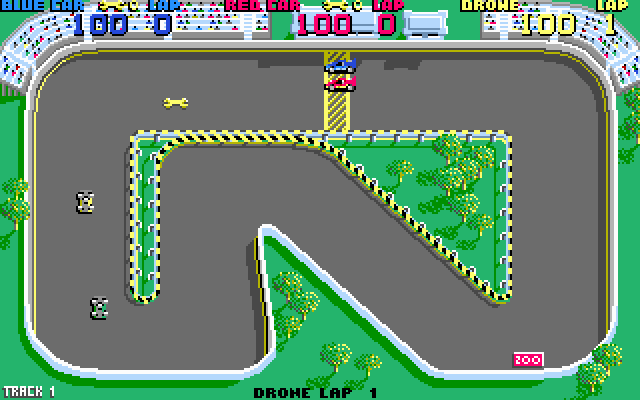
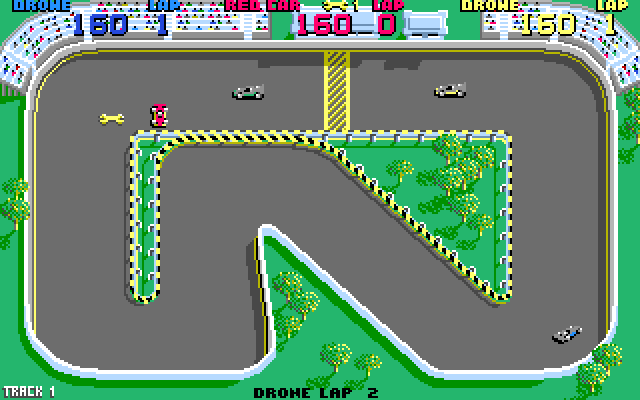
video: emit joystick-0 IKBD packets from the window - Super Sprint is playable
The SDL2 window fed the host keyboard and mouse into IKBD but never sent a
joystick report, and the keyboard synth Super Sprint builds on channel 0 has
no accelerate bit, so a window player could only ever steer - the car sat on
the grid (what the 55th pass saw).

Video.fs now also maps the arrow cluster to a joystick-0 state byte
(joyBitMap: Up = fire $80, Down = $02, Left = $04, Right = $08) and emits it
as a $FE + state-byte report on any key edge, coalesced to one packet per
frame in the same front-loaded flush as the mouse. dab30e5's FIFO re-raise
delivers the second byte to Super Sprint's single-byte-per-interrupt IKBD
handler.

Super Sprint reads the joystick fire bit as the accelerator pedal (Up), the
direction bits steer. Verified headlessly through the same EnqueueIkbd path:
in a race, injecting `fe 80` puts $80 in the joytable at -4804(a4) and the
joined car pulls off the grid, `fe 00` parks it; holding fire with periodic
steering drives the red player car a full lap of Track 1 (grid -> up the left
side -> across the top -> down the right -> back past the gantry, DRONE LAP
0->2) with no instruction wall. race.png refreshed from a real frame of that
run; README gets a "Playing it from the live window" section, DEVELOPING.md a
"Live window input" section.

Window-only code, not on the headless path, but the full net ran anyway:
- 30M diskless boot snapshot byte-identical to pre_56
- verify 5M green
[…]

diff --git a/M68000/reversing/supersprint/README.md b/M68000/reversing/supersprint/README.md
@@ -3,10 +3,11 @@
 The first **commercial** disk-loaded program the emulator runs, as opposed to the GPL
 Hatari test binaries in `../int_test/` and `../gmdostst/`. Super Sprint's `\AUTO\SSPRINT.PRG`
 loads through the real TOS 1.00 ROM, pulls in its data files, runs its
-intro/credits sequence and double-buffered attract loop, and — with injected
-IKBD input (55th pass) — leaves attract, walks its track-select / "PREPARE TO
-RACE" menu, and starts an actual Track 1 race that runs with a live drone car,
-lap counting and race timer. No instruction wall, no crash.
+intro/credits sequence and double-buffered attract loop, and — with IKBD input
+(injected 55th pass, wired to the live window's arrow keys 56th pass) — leaves
+attract, walks its track-select / "PREPARE TO RACE" menu, starts an actual Track 1
+race, and lets a window player drive the joystick car a full lap. No instruction
+wall, no crash.
 
 The one caveat is the in-race raster palette: the race engine drives a full-frame
 MFP Timer B raster split (`movem.l <16 words>,$ffff8240` per scanline group) that
@@ -135,10 +136,36 @@ So a run driven purely by injected IKBD packets (`kbd` in the REPL, or
    HUD (`BLUE CAR` / `RED CAR` / `DRONE` lap panels), grandstands, trees, the drone
    car doing timed laps. Stable over 15M+ steps of racing.
 
-The keyboard channel has no accelerate bit, so the human car mostly sits on the
-grid while the drone races; wiring the live SDL2 window's real joystick axis into
-channel 2/3 would make it fully playable. The road/sky palette is flat, not
-banded — see the raster-split caveat at the top.
+The road/sky palette is flat, not banded — see the raster-split caveat at the top.
+
+## Playing it from the live window (56th pass)
+
+The 55th pass left the human car sitting on the grid: the SDL2 window fed the
+keyboard and mouse into IKBD but never sent a joystick report, and the keyboard
+synth (channel 0) has no accelerate bit. `Video.fs` now also emits a joystick-0
+report (`$FE` + state byte, coalesced to one packet per frame on any key edge,
+exactly like the mouse packet) from the arrow cluster:
+
+| host key | joystick bit | effect |
+|----------|-------------|--------|
+| Up arrow    | `$80` (fire) | **accelerate** — Super Sprint reads the fire bit as the gas pedal |
+| Left arrow  | `$04`        | steer left |
+| Right arrow | `$08`        | steer right |
+| Down arrow  | `$02`        | joystick "down" (unused by Super Sprint; brake/reverse in games that read it) |
+
+So from the window: boot with `--disk-a "Super Sprint.ST"`, tap **Up** once to
+leave attract, tap **Up** again to join as the joystick player (the centre "PRESS
+ACCELERATE TO PLAY" slot, channel 2), wait out the countdown, then hold **Up** to
+drive and **Left**/**Right** to steer.
+
+Verified headlessly through the same `EnqueueIkbd` path: injecting `fe 80` in a
+race puts `$80` in the joytable at `-4804(a4)` and the joined car pulls off the
+grid; `fe 00` leaves it parked. Holding fire with periodic `fe 84` / `fe 88`
+steering drives the red player car a full lap of Track 1 (grid → up the left side
+→ across the top → down the right → along the bottom → back past the gantry, DRONE
+LAP advancing 0→2) with no instruction wall. `race.png` is a real frame from that
+run — the red car on the top straight approaching a wrench bonus, drones spread
+around the circuit.
 
 ### The "status bar glitch" — investigated 53rd pass, not an emulator bug
 
@@ -209,7 +236,7 @@ the attract-mode logic (the `$153xx` and `$165xx`–`$167xx` clusters).
 | `gameplay.png` | framebuffer during the in-attract Track 1 drone-car demo (the top band is the grandstand crowd, not a glitch — see above) |
 | `trackselect.png` | the **SELECT TRACK** screen, reached from attract by injecting a joystick fire press (55th pass) |
 | `prepare.png` | the three-cars "PREPARE TO RACE" ready screen with the pre-race countdown (55th pass) |
-| `race.png` | a live Track 1 race frame — HUD lap panels, grandstands, the drone car mid-lap (55th pass) |
+| `race.png` | a live Track 1 race frame — the red player car mid-lap on the top straight, driven from injected joystick-0 packets (56th pass); HUD lap panels, grandstands, drones spread round the circuit |
 | `gfxview.md` + `gfx_*.png` | looking at the palettes and decoded bitmaps in RAM with `tools/gfxview.py` (54th pass) — the `$1d3xx` title-fade palette ramp, a whole-RAM contact sheet, the title bitmap decoded from `$f8000` |
 
 The game binary and `Super Sprint.ST` are **not** included; see above to rebuild.

diff --git a/M68000/DEVELOPING.md b/M68000/DEVELOPING.md
@@ -30,6 +30,24 @@ for the full subcommand list.
 The raw form still works: `dotnet exec bin/Debug/net8.0/M68000.dll <argv>` where
 `<argv>` is any of the modes in `Program.fs`'s `main`.
 
+## Live window input (`Video.fs`)
+
+`./run.ps1 window` (or `window resume <snap>`) opens the SDL2 window and feeds
+host input back to the emulator as IKBD serial packets:
+
+- **keyboard** - physical-position scancode map (`scancodeMap`), make on keydown,
+  break (`| $80`) on keyup. Covers the typing area, arrow/edit cluster, function
+  row, Help/Undo. F12 or closing the window quits.
+- **mouse** - relative mode; motion is accumulated and flushed as `$F8`-header
+  relative packets once per frame (front-loaded, to avoid catching a half-drawn
+  VDI cursor at the VBL). Button edges send immediately.
+- **joystick 0** - the arrow cluster is also mapped to a joystick-0 state byte
+  (`joyBitMap`): Up = fire bit `$80`, Down = `$02`, Left = `$04`, Right = `$08`.
+  Emitted as a `$FE` + state-byte report on any key edge, coalesced to one packet
+  per frame like the mouse. This is what makes Super Sprint playable from the
+  window - it reads the fire bit as the accelerator (see
+  `reversing/supersprint/README.md`).
+
 ## `ATARI_NOTRACE`
 
 `ATARI_NOTRACE=1` redirects `Console.Out` to a null sink so the ~221 per-step
